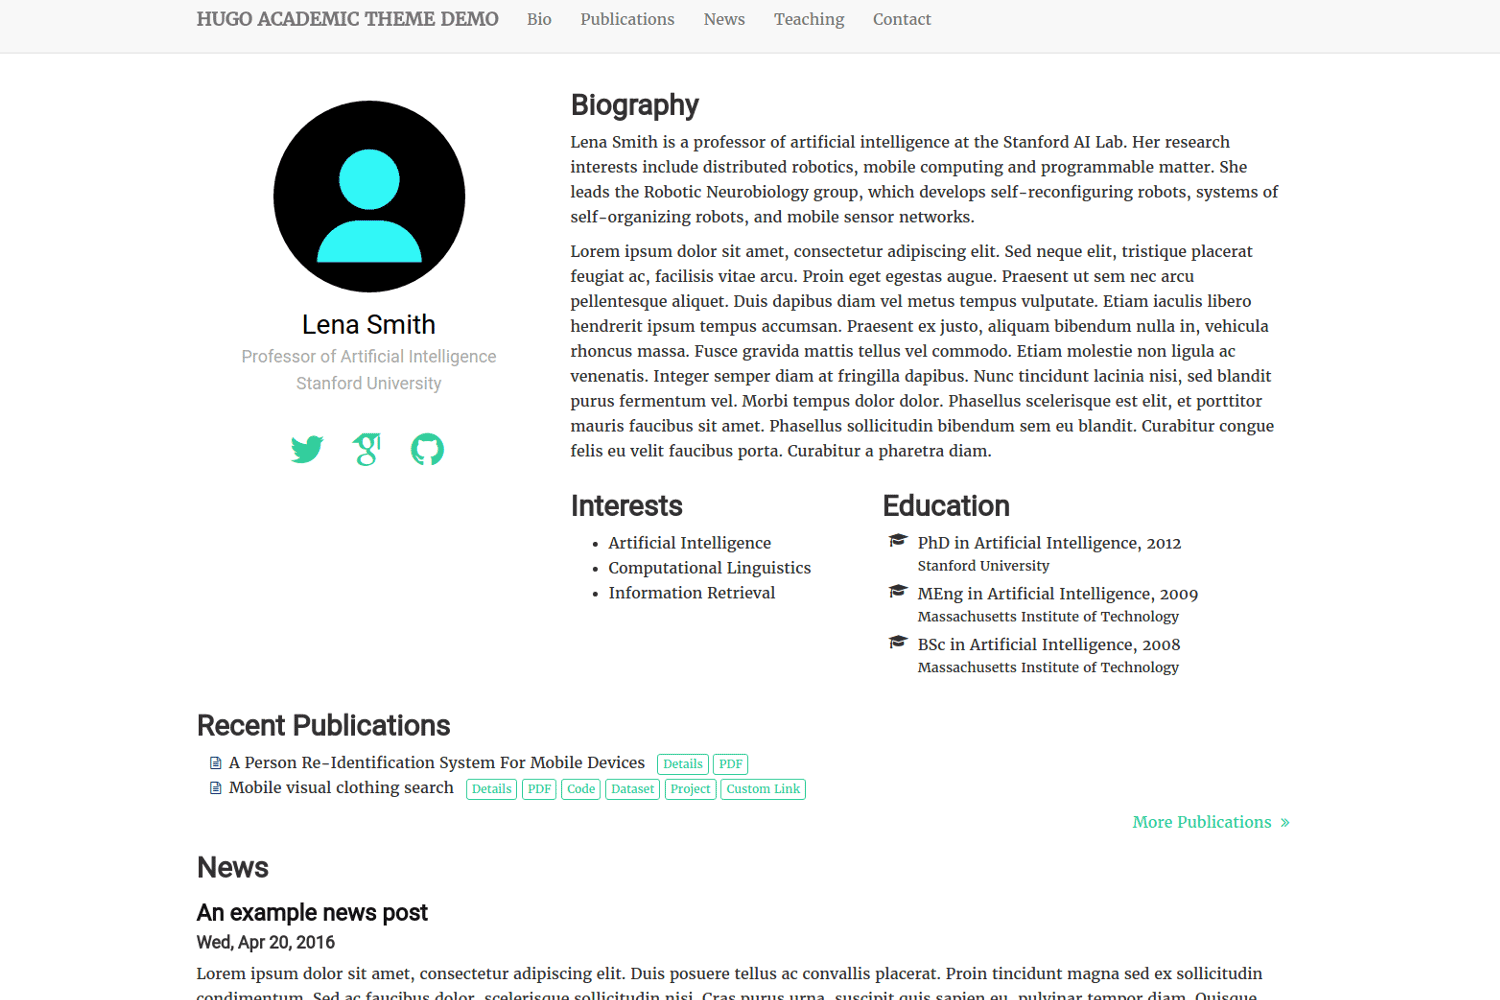
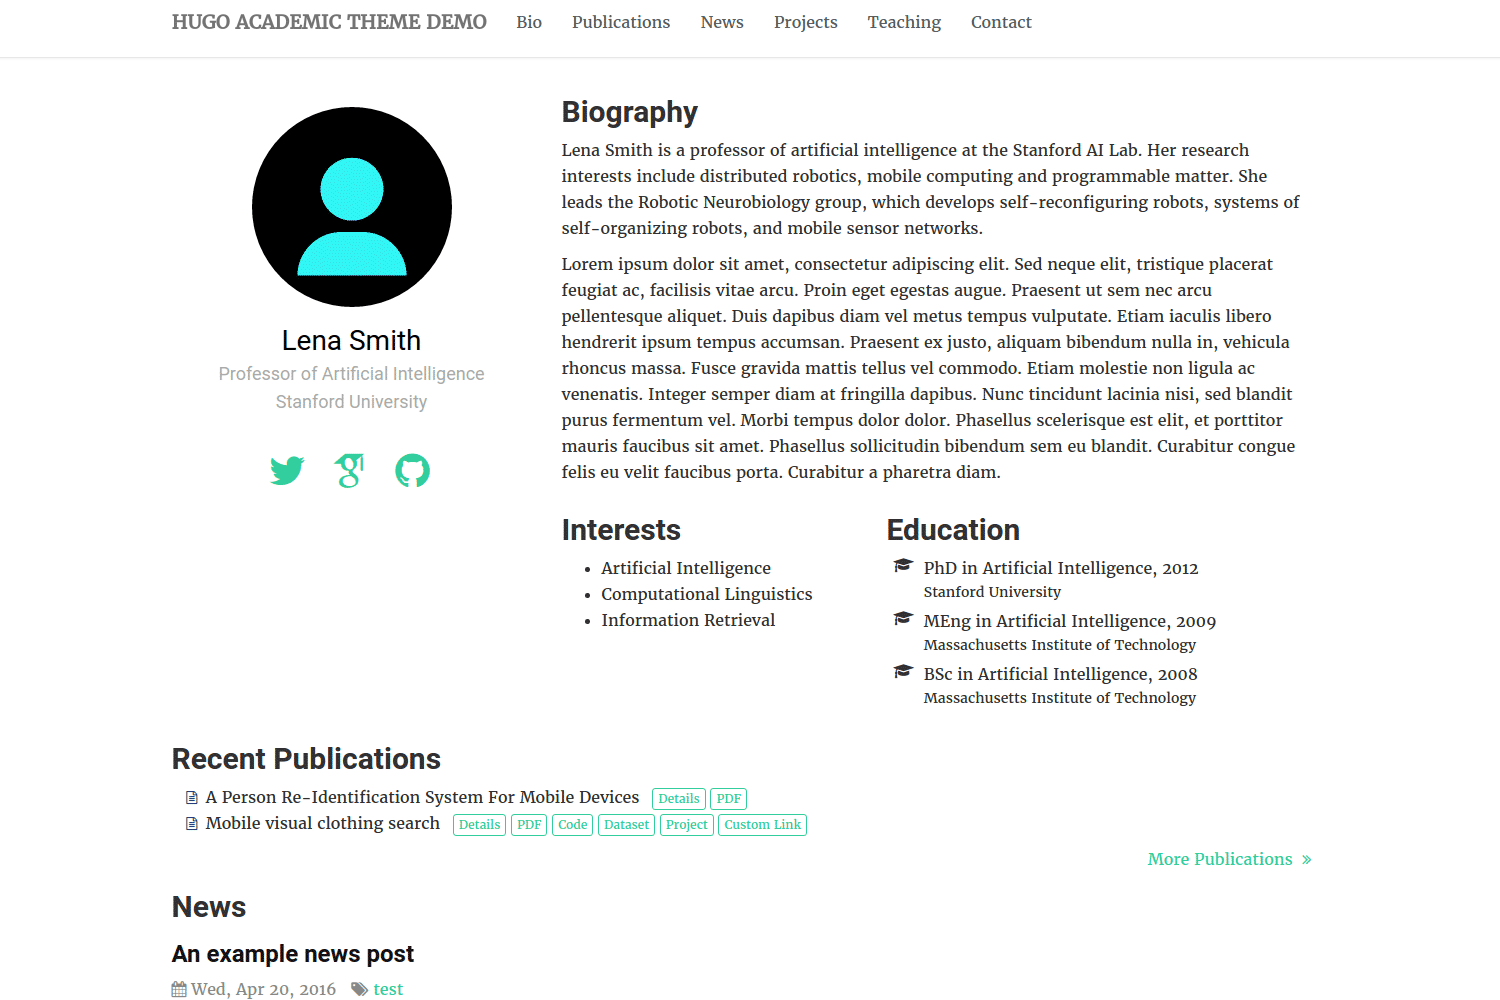
(1) Add Project feature. (2) Fix exampleSite. (3) Various minor improvements.

diff --git a/layouts/index.html b/layouts/index.html
@@ -17,7 +17,7 @@
             {{ range first 5 (where .Data.Pages.ByDate "Section" "publications").Reverse }}
             <li>
                 <i class="fa-li fa fa-file-text-o pub-icon" aria-hidden="true"></i>
-                <span style="padding-right: 8px">{{ .Title | safeHTML }}</span>
+                <span style="padding-right: 8px">{{ .Title | markdownify }}</span>
                 <a class="btn btn-primary btn-outline btn-xs" href="{{ .Permalink }}">Details</a>
                 {{ with .Params.url_pdf }}<a class="btn btn-primary btn-outline btn-xs" href="{{ . }}">PDF</a>{{ end }}
                 {{ with .Params.url_code }}<a class="btn btn-primary btn-outline btn-xs" href="{{ . }}">Code</a>{{ end }}
@@ -34,9 +34,9 @@
     <section id="news">
         <h2>News</h2>
         {{ range last 5 (where .Data.Pages "Section" "=" "blog") }}
-        <div>
+        <div class="article-list-item">
             <h3 class="post-title"><a href="{{ .Permalink }}">{{ .Title }}</a></h3>
-            <h4>{{ .Date.Format "Mon, Jan 2, 2006" }}</h4>
+            {{ partial "article_metadata" . }}
             <p>
                 {{ if .Truncated }}
                     {{ .Summary }}
@@ -48,6 +48,21 @@
         </div>
         {{ end }}
         <p class="text-right"><a href="/blog/">More Posts <i class="fa fa-angle-double-right" style="padding-left: 5px;"></i></a></p>
+    </section>
+
+
+    <section id="projects">
+        <h2>Projects</h2>
+        <ul class="fa-ul">
+        {{ range where .Data.Pages "Section" "=" "projects" }}
+            <li>
+                {{ if .Content }}<a href="{{ .Permalink }}">{{ else }}{{ with .Params.external_link }}<a href="{{ . }}">{{ end }}{{ end }}
+                <i class="fa-li fa fa-files-o pub-icon" aria-hidden="true"></i>
+                <span style="padding-right: 8px">{{ .Title | markdownify }}</span>
+                {{ if .Content }}</a >{{ else }}{{ with .Params.external_link }}</a>{{ end }}{{ end }}
+            </li>
+        {{ end }}
+        </ul>
     </section>
 
 

diff --git a/static/css/hugo-academic.css b/static/css/hugo-academic.css
@@ -78,6 +78,23 @@ footer, footer p {
 }
 
 /*************************************************
+ *  Blog Articles
+ **************************************************/
+
+.article-metadata {
+    margin-bottom: 20px;
+}
+
+.article-list-item .article-metadata {
+    margin-bottom: 5px;
+}
+
+.article-metadata .article-date, .article-metadata .article-tags {
+    margin-right: 10px;
+    color: #888;
+}
+
+/*************************************************
  *  Publications
  **************************************************/
 
@@ -93,10 +110,6 @@ footer, footer p {
 
 .citation_authors {
     font-style: italic;
-}
-
-.citation_authors .citation_author {
-    padding-right: 25px;
 }
 
 /* Note: a corresponding style appears further down, in @media for mobile screen size */
@@ -233,6 +246,23 @@ ul.ul-edu li .description p.institution {
 
 .navbar {
     min-height:60px !important;
+}
+
+.navbar-default {
+    background: #fff;
+    -webkit-box-shadow: 0 1px 2px rgba(0,0,0,0.05);
+    box-shadow: 0 1px 2px rgba(0,0,0,0.05);
+}
+
+.navbar-default .navbar-nav li a, .navbar-default .navbar-nav li a:visited {
+    white-space: nowrap;
+    -webkit-transition: 0.2s ease;
+    transition: 0.2s ease;
+    color: #565a5f;
+}
+
+.navbar-default .navbar-nav li a:hover {
+    color: #11aa66;
 }
 
 .navbar-brand, .navbar-nav li a {

diff --git a/layouts/publications/single.html b/layouts/publications/single.html
@@ -6,8 +6,8 @@
         <div class="pub-title">
             <h1>{{ .Title }}</h1>
             <p class="citation_authors">
-                {{ range .Params.authors }}
-                <span class="citation_author">{{ . }}</span>
+                {{ with .Params.authors }}
+                {{ delimit . ", " }}
                 {{ end }}
             </p>
         </div>
@@ -65,7 +65,7 @@
 
     </div>
 
-    {{ partial "section_metadata.html" . }}
+    {{ partial "section_item_pager.html" . }}
     {{ partial "footer_container.html" . }}
 </div>
 {{ partial "footer.html" . }}

diff --git a/layouts/partials/header.html b/layouts/partials/header.html
@@ -11,7 +11,7 @@
     {{ with .Site.Params.role }}<meta name="description" content="{{ . }}" />{{ end }}
 
     <link rel="stylesheet" href="/css/bootstrap.min.css" />
-    <link rel="stylesheet" href="//cdnjs.cloudflare.com/ajax/libs/highlight.js/9.3.0/styles/default.min.css">
+    <link rel="stylesheet" href="//cdnjs.cloudflare.com/ajax/libs/highlight.js/9.3.0/styles/github.min.css">
     <link rel="stylesheet" href="/css/font-awesome.min.css" />
     <link rel="stylesheet" href="/css/academicons.min.css" />
     <link rel="stylesheet" href="/css/hugo-academic.css" />

diff --git a/layouts/projects/single.html b/layouts/projects/single.html
@@ -1,0 +1,16 @@
+{{ partial "header.html" . }}
+{{ partial "navbar.html" . }}
+<div class="container">
+
+    <h1>{{ .Title }}</h1>
+    {{ with .Params.external_link }}<a class="btn btn-primary btn-outline" href="{{ . }}">Go to Project Site</a>{{ end }}
+    <div class="post">
+        {{ .Content }}
+    </div>
+
+    {{ partial "section_item_pager.html" . }}
+
+    {{ partial "footer_container.html" . }}
+
+</div>
+{{ partial "footer.html" . }}

diff --git a/layouts/_default/single.html b/layouts/_default/single.html
@@ -3,12 +3,12 @@
 <div class="container">
 
     <h1>{{ .Title }}</h1>
-    <h4>{{ .Date.Format "Mon, Jan 2, 2006" }}</h4>
+    {{ partial "article_metadata" . }}
     <div class="post">
         {{ .Content }}
     </div>
 
-    {{ partial "section_metadata.html" . }}
+    {{ partial "section_item_pager.html" . }}
 
     {{ partial "footer_container.html" . }}
 

diff --git a/layouts/_default/list.html b/layouts/_default/list.html
@@ -5,7 +5,7 @@
     {{ range .Data.Pages }}
     <div>
         <h2><a href="{{ .Permalink }}">{{ .Title }}</a></h2>
-        <h4>{{ .Date.Format "Mon, Jan 2, 2006" }}</h4>
+        <h4>{{ .Date.Format .Site.Params.date_format }}</h4>
         <p>{{ .Summary }}</p>
     </div>
     {{ end }}

diff --git a/README.md b/README.md
@@ -100,9 +100,17 @@ Then edit the newly created file `blog/my-article-name.md` with your full title 
 
 You may use Markdown to format the content. Furthermore, code highlighting is allowed in case your news articles are related to discussing programming or computer science. An example can be seen in `themes/hugo-academic/exampleSite/example-post.md`. Note that post tagging is not currently used, but is a placeholder for a future update.
 
+### Create a project
+
+To create a project:
+
+    hugo new projects/my-project-name.md
+
+Then edit the newly created file `projects/my-project-name.md`. Either you can link the project to an external project website by setting the `external_link = "http://external-project.com"` variable at the top of the file, or you can add content (below the final `+++`) in order to render a project page on your website.
+
 ### Removing content
 
-Generally, to remove content, simply delete the relevant file from your `content/blog` or `content/publications` folder.
+Generally, to remove content, simply delete the relevant file from your `content/blog`, `content/publications`, or `content/projects` folder.
 
 Otherwise, to remove the Teaching section from the home page, simply delete the `content/home/teaching.md` file. Alternatively, you may re-purpose the section by editing the heading and contents within the file.
 

diff --git a/archetypes/projects.md b/archetypes/projects.md
@@ -1,0 +1,8 @@
++++
+tags = []
+summary = ""
+img = ""
+img_preview = ""
+client_name = ""
+external_link = ""
++++

diff --git a/archetypes/blog.md b/archetypes/blog.md
@@ -1,3 +1,3 @@
 +++
-tags = [""]
+tags = []
 +++
